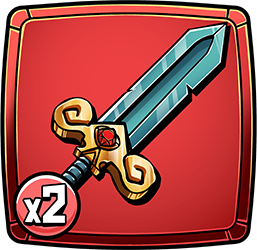
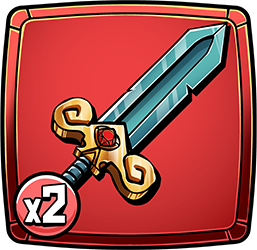
tweak swipe sens. fix missing sprites

diff --git a/Assets/Scripts/Core/HumanPlayerInput.cs b/Assets/Scripts/Core/HumanPlayerInput.cs
@@ -9,9 +9,8 @@ public class HumanPlayerInput : MonoBehaviour
 {
     public NetworkPlayer LocalPlayerController { get; private set; }
 
-    [Header("Responsiveness")]
-    [Tooltip("Physical distance (inches) the finger must move to register a swipe.")]
-    [SerializeField] private float _swipeThresholdInches = 0.2f; // Increased slightly for safety
+    // Physical distance (inches) the finger must move to register a swipe.
+    private float _swipeThresholdInches = 0.25f;
 
     // State Tracking
     private TileView _selectedTile;
